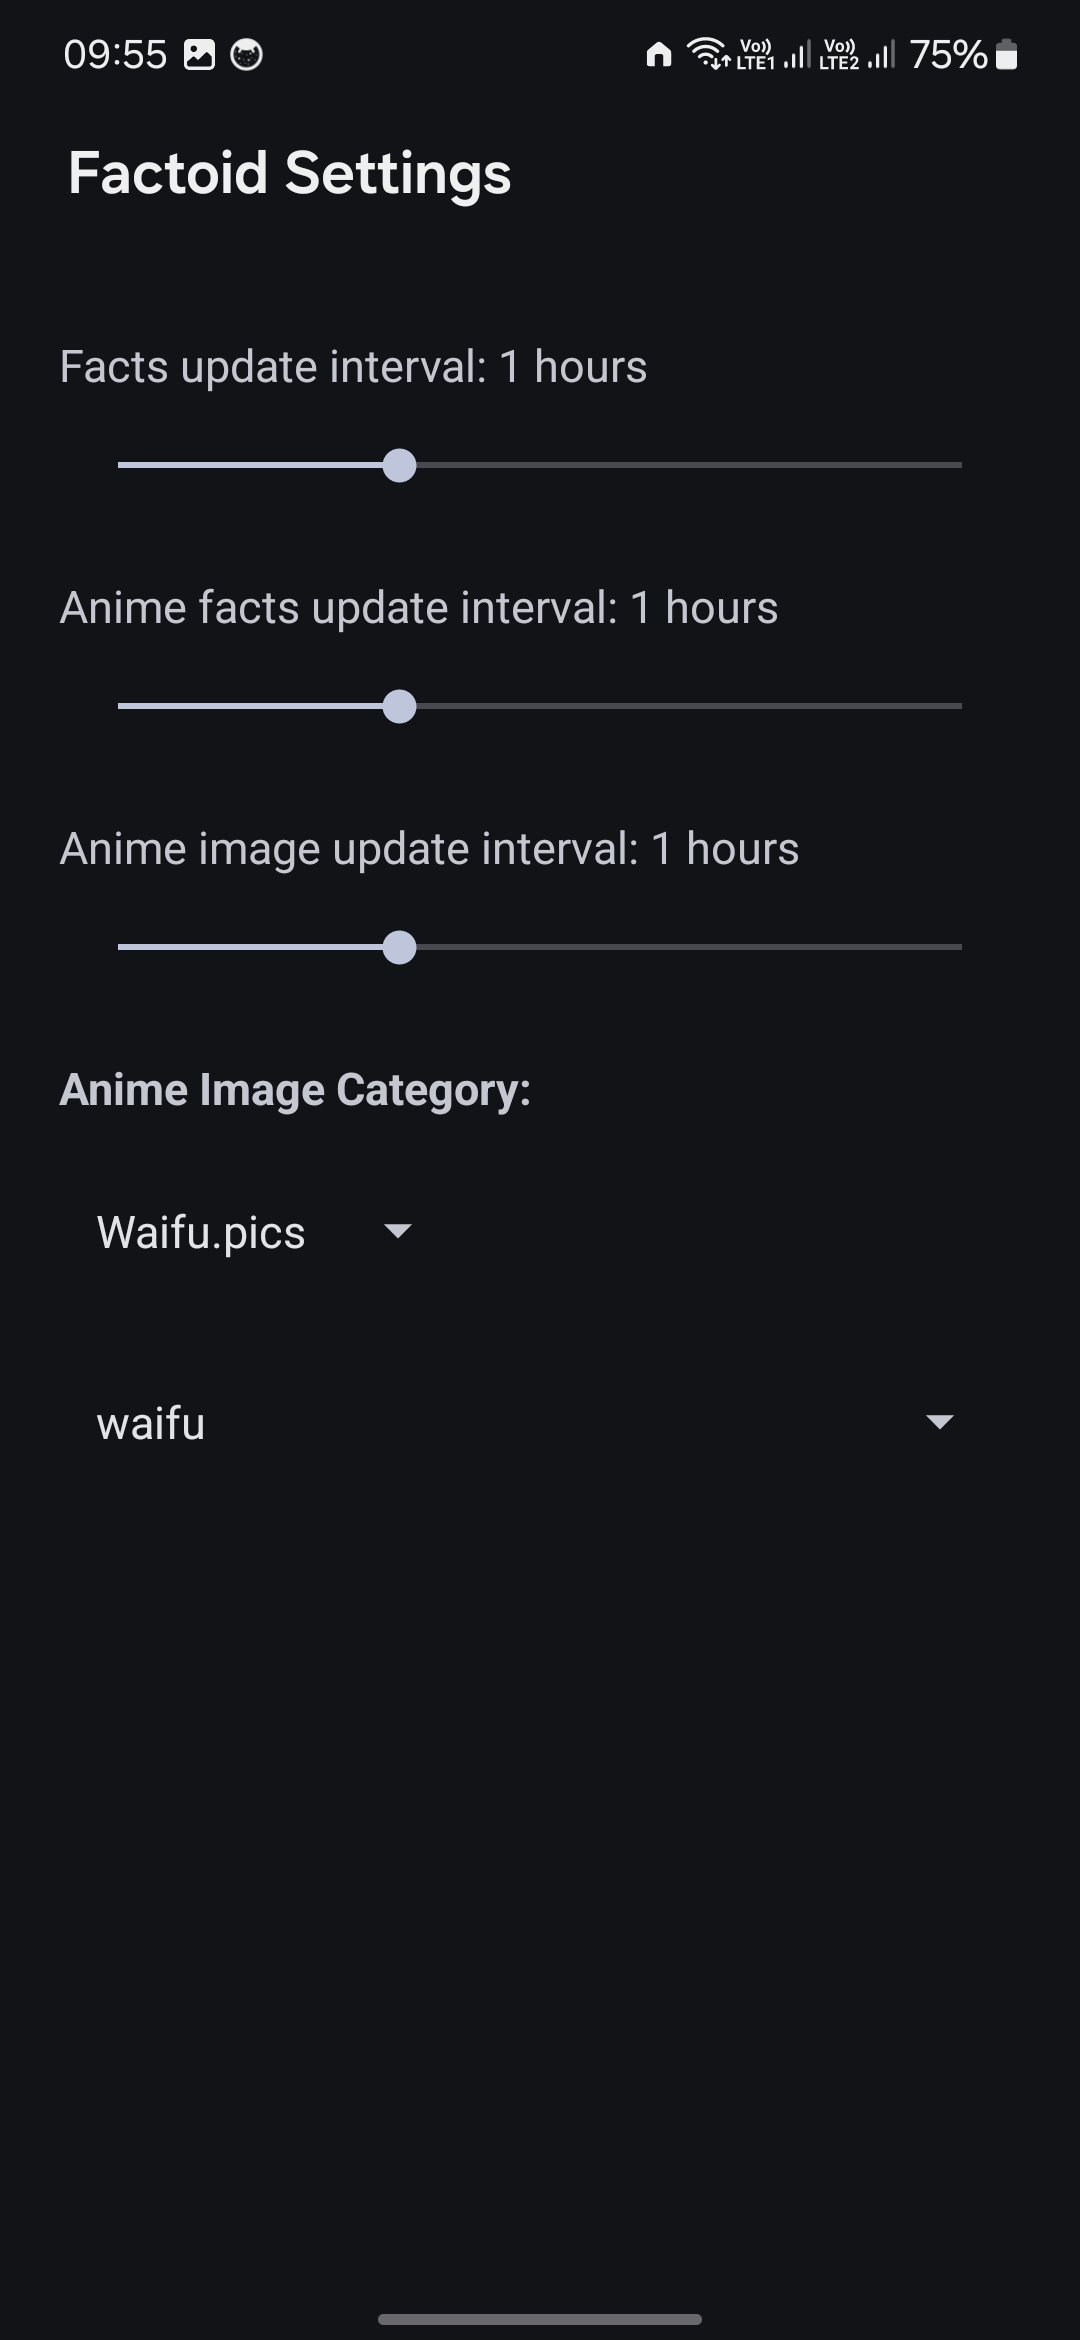
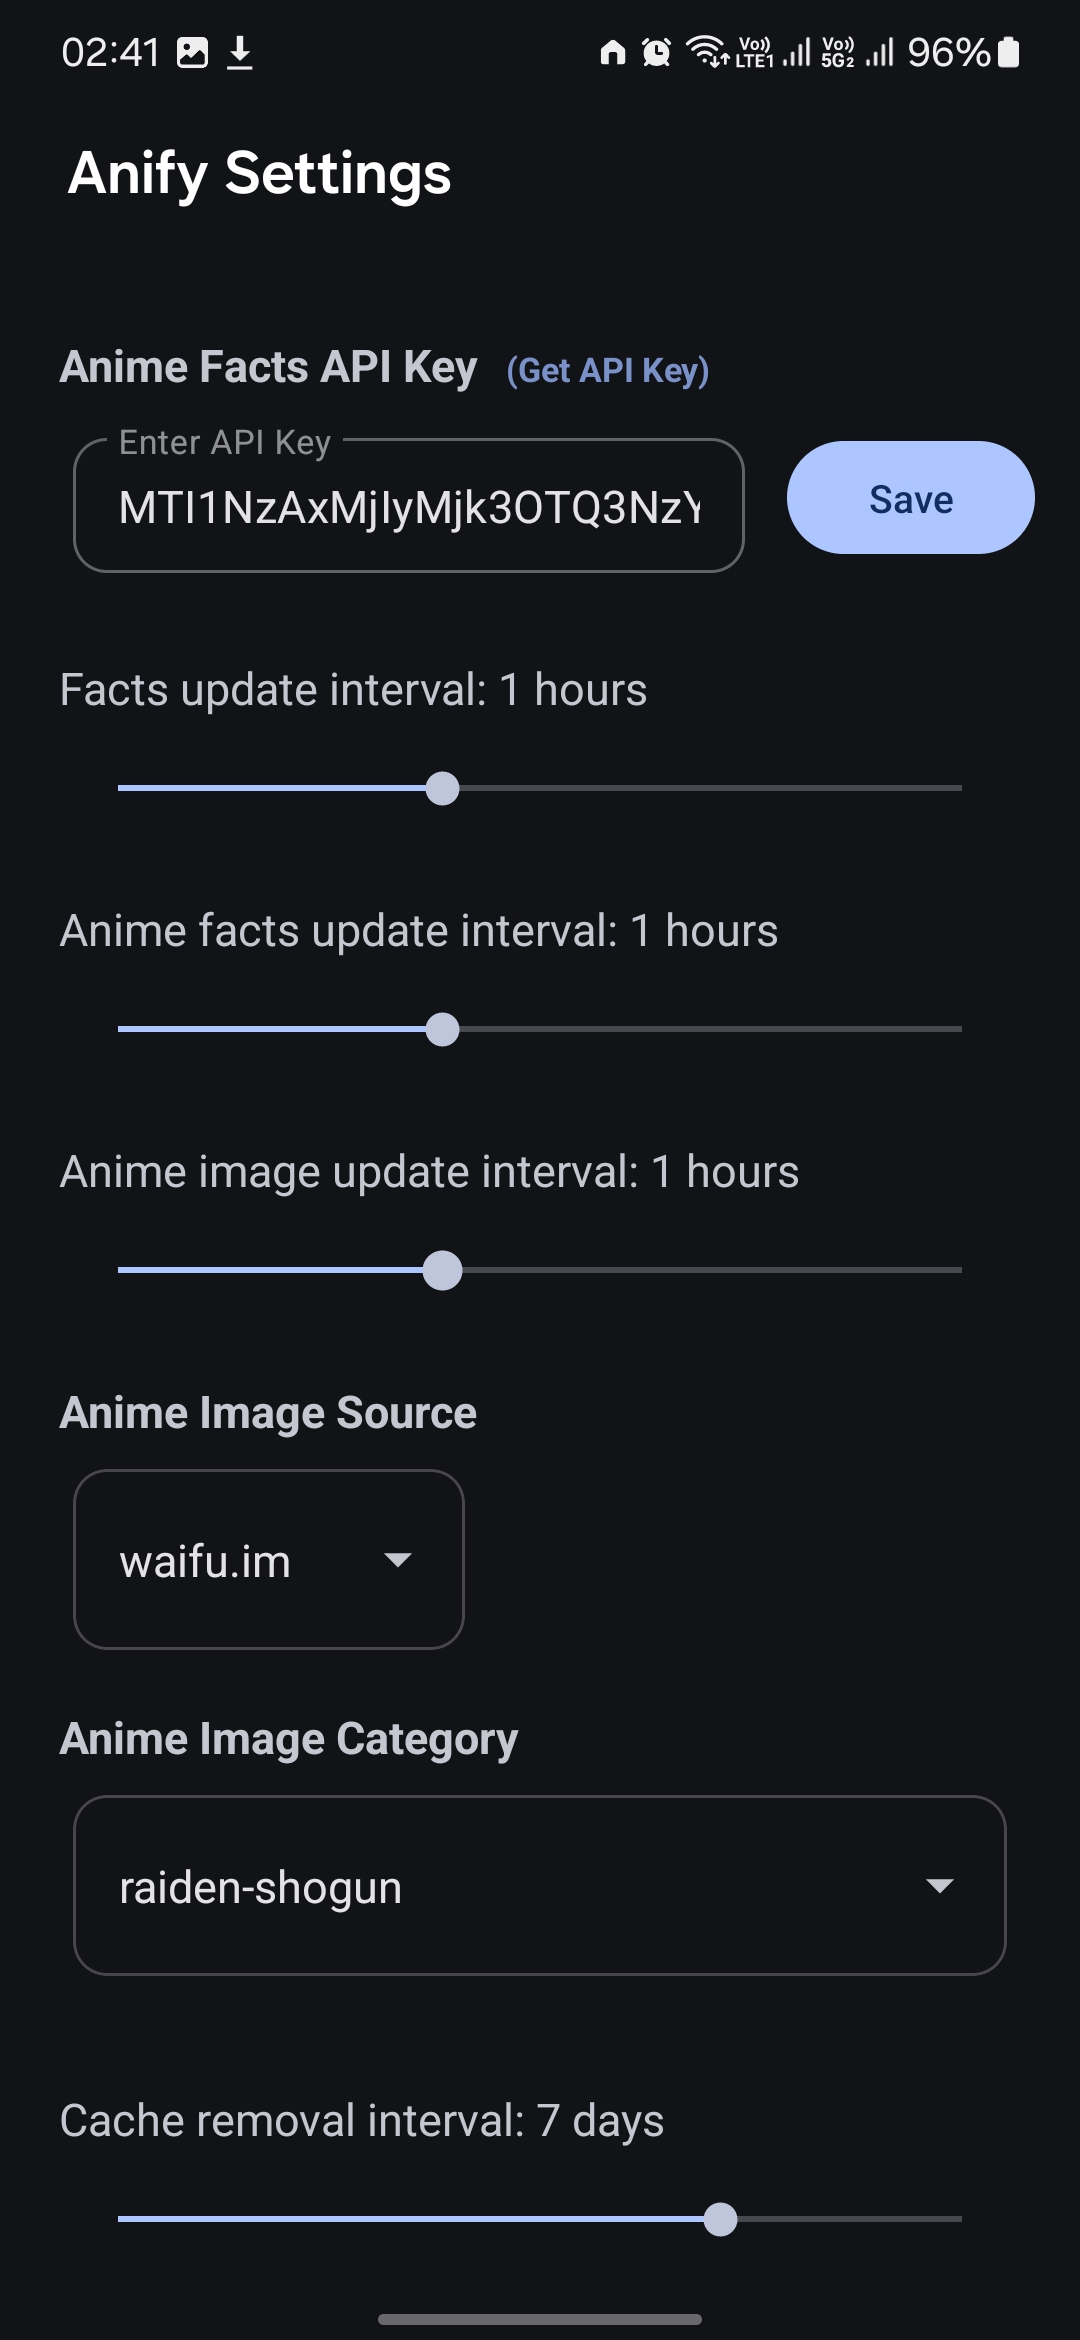
- update readme.md and screenshots

diff --git a/readme.md b/readme.md
@@ -1,26 +1,31 @@
-# Factoid - Random Facts Widget
+# Anify - Elevate your homescreen with facts and images
 
-![Factoid Logo](screenshots/logo.webp)
+![Anify Logo](screenshots/logo.webp)
 
-Factoid is an Android app that provides users with interesting random facts through a home screen widget. The widget refreshes automatically at set intervals and can also be manually refreshed by the user.
+Anify is an Android app that transforms your home screen into a dynamic portal of fascinating facts and captivating anime images. With a suite of beautifully designed widgets, Anify brings a daily dose of curiosity and creativity right to your fingertips.
 
-## Features
+## 🌟Features
 
-- Home screen widget displaying random facts
+- Home screen widget for 
+   - Random facts
+   - Random anime facts
+   - Random anime images
 - Automatic refresh at customizable intervals
 - Manual refresh option
+- Download option
 - Network state handling
+- Auto cache deletion
 
-## Screenshots
+## 📱Screenshots
 
 | <img src="screenshots/Screenshot-1.jpg" width="250" height="auto"> | <img src="screenshots/Screenshot-2.jpg" width="250" height="auto"> | <img src="screenshots/Screenshot-3.jpg" width="250" height="auto"> |
 
-## Release
+## 🚀Release
 
-![Latest Release](https://img.shields.io/github/v/release/Debojit-mitra/Factoid?social)
-[![Go to Latest Release](https://img.shields.io/badge/Go%20to%20Latest%20Release-red)](https://github.com/Debojit-mitra/Factoid/releases/latest)
+![Latest Release](https://img.shields.io/github/v/release/Debojit-mitra/Anify?social)
+[![Go to Latest Release](https://img.shields.io/badge/Go%20to%20Latest%20Release-red)](https://github.com/Debojit-mitra/Anify/releases/latest)
 
-## Technologies Used
+## 🛠Technologies Used
 
 - Java
 - Android SDK
@@ -28,14 +33,14 @@ Factoid is an Android app that provides users with interesting random facts thro
 - GSON for JSON parsing
 - Android AppWidgetProvider for widget functionality
 
-## Installation
+## 🔧Installation
 
 To get a local copy up and running follow these simple steps:
 
 1. **Clone the repo**
 
    ```sh
-   git clone https://github.com/Debojit-mitra/You-See.git
+   git clone https://github.com/Debojit-mitra/Anify.git
 
    ```
 
@@ -44,17 +49,26 @@ To get a local copy up and running follow these simple steps:
 3. **Build and Run**
    - Sync the project with Gradle files and run it on an Android device or emulator.
 
-## Usage
+## 🎈Usage
 
-1. Add the Factoid Widget to your home screen
-2. The widget will automatically display a random fact
-3. Tap the refresh button to get a new fact
-4. The widget will also refresh automatically based on the set interval
+1. Install app, Open the app and grant necessary permissions 
+2. Add the Anify Widgets to your home screen
+3. The widget will automatically display a random fact, anime facts, anime images
+4. You will need to provide your personal API key for anime facts
+5. Tap the refresh button to get a new fact
+6. The widget will also refresh automatically based on the set interval
 
-## API
+## 🌐API
 
-This app uses the [Useless Facts API](https://uselessfacts.jsph.pl/) to fetch random facts.
+### This app uses
+- [Useless Facts API](https://uselessfacts.jsph.pl/) to fetch random facts.
+- [Waifu.it API](https://waifu.it/) to fetch random anime facts.
+- [Waifu.pics API](https://waifu.pics/), [Nekobot API](https://nekobot.xyz/) and [Waifu.im API](https://www.waifu.im/) to fetch anime images 
 
-## Contributing
-
-Contributions are welcome! Please feel free to submit a Pull Request.
+## 🤝Contributing
+### Contributions are welcome! Please feel free to submit a Pull Request.
+- Fork the Project
+- Create your Feature Branch (`git checkout -b feature/AmazingFeature`)
+- Commit your Changes (`git commit -m 'Add some AmazingFeature'`)
+- Push to the Branch (`git push origin feature/AmazingFeature`)
+- Open a Pull Request
